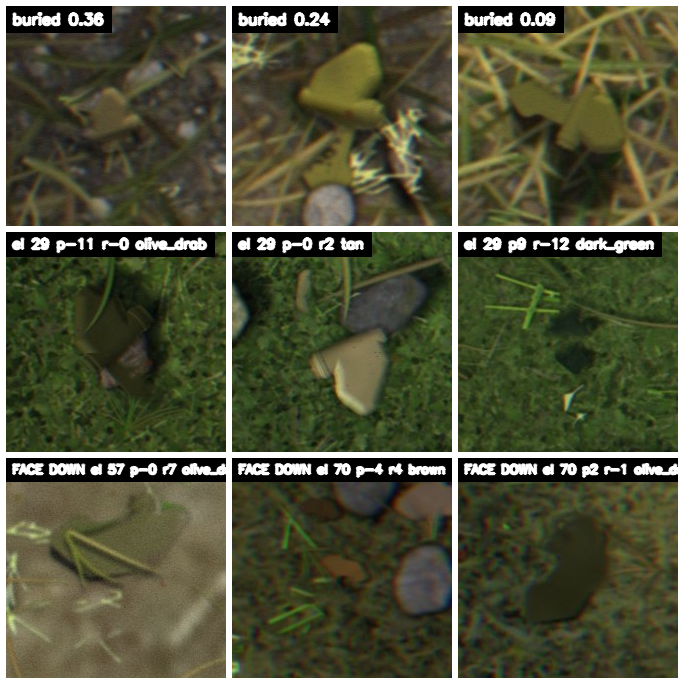
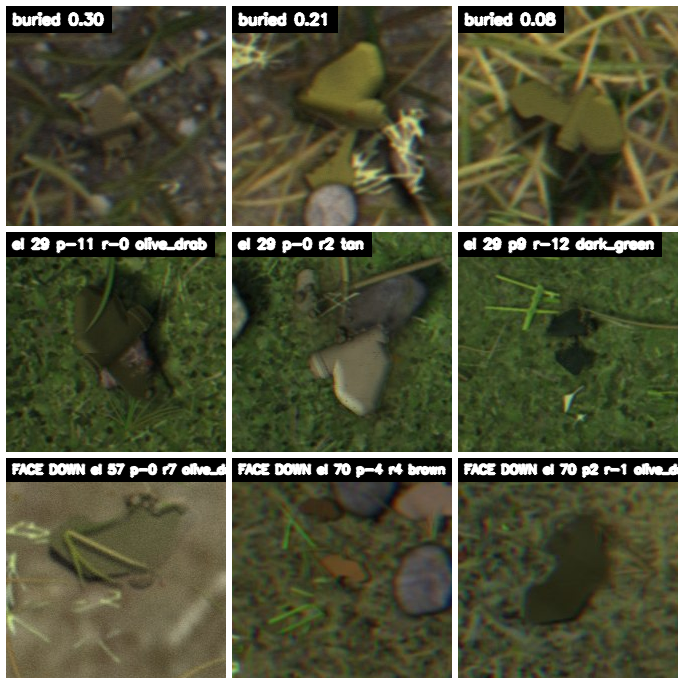
feat: improve burial realism with berm, disturbed soil, clods and blade warp

diff --git a/DatasetGenerator/objects.py b/DatasetGenerator/objects.py
@@ -343,7 +343,7 @@ class Mine:
         if burial is not None:
             # the clip plane can leave slivers on thin wings / rims and tiny islands: remove them (they count as buried)
             full_px = float((self.alpha_full > 0.5).sum())
-            keep = burial_fx.clean_mask(self.alpha > 0.5, cfg.BURIAL_MIN_FRAGMENT_FRAC * full_px, cfg.BURIAL_OPEN_PX)
+            keep = burial_fx.clean_mask(self.alpha > 0.5, cfg.BURIAL_MIN_FRAGMENT_FRAC * full_px, self._open_r(ppu))
             g = cv2.dilate(keep, burial_fx.K3).astype(np.float32)
             self.alpha = self.alpha * g
             self.rgb_pm = self.rgb_pm * g[..., None]
@@ -353,6 +353,11 @@ class Mine:
                          colour=cinfo, burial={"buried": burial is not None, **(burial or {}), **r["info"]})
         if not cfg.SOIL_BLEND:
             self._v1_dots()
+
+    def _open_r(self, length_px):
+        """Opening radius for the burial clean-up: strips thinner than ~2 r px (r = BURIAL_OPEN_FRAC x mine length,
+        at least BURIAL_OPEN_PX) left by the clip plane on thin wings / rims are removed."""
+        return int(max(self.cfg.BURIAL_OPEN_PX, round(self.cfg.BURIAL_OPEN_FRAC * length_px)))
 
     def _load_sprite(self, scale):
         cfg, rng = self.cfg, self.rng
@@ -450,15 +455,21 @@ class Mine:
             s_rgb = s_rgb * (s_a > 0)[..., None]
         # what the soil line leaves visible must not contain slivers / islands either: cover them with soil
         vis = alpha * (1.0 - s_a)
-        keep = burial_fx.clean_mask(vis > 0.5, cfg.BURIAL_MIN_FRAGMENT_FRAC * full, cfg.BURIAL_OPEN_PX)
+        stages = {"clip": float(1 - (alpha > 0.5).sum() / max(full, 1)),
+                  "soil_line": float(1 - (vis > 0.5).sum() / max(full, 1))}
+        keep = burial_fx.clean_mask(vis > 0.5, cfg.BURIAL_MIN_FRAGMENT_FRAC * full, self._open_r(L))
         drop = ((alpha > 0.02) & (cv2.dilate(keep, burial_fx.K3) == 0)).astype(np.float32)
         if drop.any():
             soil_col = fx.gblur(local, 1.0) * p["berm_darken"]
             s_rgb = s_rgb * (1 - drop)[..., None] + soil_col * drop[..., None]
             s_a = np.maximum(s_a, drop)
         vis = alpha * (1.0 - s_a)
+        stages["fragments"] = float(1 - (vis > 0.5).sum() / max(full, 1))
         core = np.maximum(np.clip(self.alpha_full - alpha, 0, 1), s_a)
-        line, dist = burial_fx.soil_line(vis, core)
+        # the ridge / occlusion gradient follow the CLIP line (visible mine against the part cut away by the soil
+        # plane, incl. dropped fragments); the noisy soil cover over low rims only roughens the edge
+        clip_core = np.maximum(np.clip(self.alpha_full - alpha, 0, 1), drop)
+        line, dist = burial_fx.soil_line(vis, clip_core)
         if cfg.BURIAL_DIRTY_EXPOSED:
             rgb_pm = burial_fx.dirty_exposed(rgb_pm, alpha, dist, local, L, bp, sB, rngb, cfg)
         fx.over(img, rgb_pm, alpha, self.x, self.y)
@@ -479,9 +490,25 @@ class Mine:
                 cover = np.maximum(cover, tmp)
         vis_final = vis * (1.0 - cover)
         achieved = float(1 - (vis_final > 0.5).sum() / max(full, 1))
-        if achieved > cfg.BURIAL_MAX_FRACTION:   # ridge / clods hid too much: they stay, but only semi-transparent
-            vis_final = vis * (1.0 - np.minimum(cover, 0.45))
+        if achieved > cfg.BURIAL_MAX_FRACTION:
+            # ridge / clods would hide too much: they are drawn as they are, but for the visible mask (label) they
+            # count with the largest weight f that keeps the cap (bisection), i.e. as partly see-through cover
+            lo, hi = 0.0, 1.0
+            for _ in range(8):
+                f = (lo + hi) / 2
+                if 1 - (vis * (1 - f * cover) > 0.5).sum() / max(full, 1) > cfg.BURIAL_MAX_FRACTION:
+                    hi = f
+                else:
+                    lo = f
+            vis_final = vis * (1.0 - lo * cover)
             achieved = float(1 - (vis_final > 0.5).sum() / max(full, 1))
+        # ridge / clods can split off tiny bits of the visible mask: the label mask drops them like any fragment
+        keep = burial_fx.clean_mask(vis_final > 0.5, cfg.BURIAL_MIN_FRAGMENT_FRAC * full, cfg.BURIAL_OPEN_PX)
+        vis_final = vis_final * cv2.dilate(keep, burial_fx.K3).astype(np.float32)
+        achieved = float(1 - (vis_final > 0.5).sum() / max(full, 1))
+        stages["final"] = achieved
+        self.meta["burial"]["hidden_by_stage"] = stages
+        self.meta["burial"]["cap_exceeded"] = bool(achieved > cfg.BURIAL_MAX_FRACTION + 0.01)
         self.visible = vis_final
         self.meta["burial"].update({k: v for k, v in p.items() if k != "noise_seed"})
         self.meta["burial"].update(achieved=achieved, realism={k: v for k, v in bp.items() if k != "seed"}, scale=sB)

diff --git a/tests/test_burial.py b/tests/test_burial.py
@@ -4,7 +4,8 @@ For several seeds / poses, the same mine is built with burial off and with 40% b
 Checks: (1) the placement anchor (bbox of the unclipped silhouette) is identical -> 0 px offset;
 (2) every visible pixel of the buried mine lies inside the unburied mine's silhouette (1 px tolerance for
 anti-aliasing); (3) the visible area actually shrinks; (4) the full scene: the label box of the buried mine lies
-inside the unburied box. Run: python3 tests/test_burial.py  (or pytest tests/).
+inside the unburied box; (5) the final visible mask of buried mines (9 seeds / poses incl. face down) has no tiny
+islands and no 1-2 px-wide line structures. Run: python3 tests/test_burial.py  (or pytest tests/).
 """
 import os
 import sys
@@ -61,6 +62,43 @@ def check(seed, pose):
     return anchor_off, int((vis_on > 0.5).sum()), int((vis_off > 0.5).sum())
 
 
+FRAG_CASES = [(12, (3, -2, 30)), (13, (3, -2, 30)), (1, (3, -2, 30)), (3, (-2, 5, 200)), (4, (2, -3, 60, True)),
+              (2, (3, -2, 300)), (7, (8, -4, 250, True)), (21, (-6, 10, 75)), (8, (4, 3, 120))]
+
+
+def check_fragments(seed, pose, fraction=0.4):
+    """Final visible mask of a buried mine (after soil line, fragment clean-up, ridge, clods): no connected component
+    smaller than BURIAL_MIN_FRAGMENT_FRAC x full area, and no 1-2 px-wide line structures (a 3x3 opening keeps at
+    least 70% of every component; overall it removes < 6% of the visible pixels)."""
+    cfg = make_config(dict(n_mines=1, mine_scale=0.35, mine_pose=pose, burial_prob=1.0, burial_fraction=fraction,
+                           burial_tilt=15))
+    rng = np.random.default_rng([seed, 0, 0])
+    sun = sunmod.sample_sun(rng, cfg)
+    scene = {"sun": sun, "luma": 0.4, "px_per_mm": 1.0, "blade_budget": [0]}
+    m = Mine(cfg, [seed, 0, 10, 0], scene)
+    m.set_position(1920, 1080, centre=(960, 540))
+    img = np.full((1080, 1920, 3), 0.4, np.float32)
+    m.draw(img)
+    vis = (m.visible > 0.5).astype(np.uint8)
+    full = float((m.alpha_full > 0.5).sum())
+    n, lab, st, _ = cv2.connectedComponentsWithStats(vis, connectivity=8)
+    opened = cv2.morphologyEx(vis, cv2.MORPH_OPEN, cv2.getStructuringElement(cv2.MORPH_ELLIPSE, (3, 3)))
+    for i in range(1, n):
+        area = st[i, cv2.CC_STAT_AREA]
+        assert area >= cfg.BURIAL_MIN_FRAGMENT_FRAC * full * 0.5, \
+            f"seed {seed}: visible fragment of {area} px (< min {cfg.BURIAL_MIN_FRAGMENT_FRAC * full:.0f})"
+        kept = (opened[lab == i] > 0).mean()
+        assert kept >= 0.7, f"seed {seed}: component {i} is line-like ({kept:.2f} survives a 3x3 opening)"
+    lost = 1 - opened.sum() / max(vis.sum(), 1)
+    assert lost < 0.06, f"seed {seed}: {lost:.3f} of the visible pixels are 1-2 px structures"
+    return n - 1, float(m.meta["burial"]["achieved"]), float(lost)
+
+
+def test_buried_visible_mask_has_no_slivers():
+    for seed, pose in FRAG_CASES:
+        check_fragments(seed, pose)
+
+
 def test_burial_keeps_position_and_silhouette():
     for seed, pose in CASES:
         check(seed, pose)
@@ -70,4 +108,7 @@ if __name__ == "__main__":
     for seed, pose in CASES:
         anchor, a_on, a_off = check(seed, pose)
         print(f"seed {seed} pose {pose}: anchor {anchor} identical, visible {a_on}/{a_off} px, all inside -> OK")
+    for seed, pose in FRAG_CASES:
+        n, ach, lost = check_fragments(seed, pose)
+        print(f"seed {seed} pose {pose}: {n} visible component(s), hidden {ach:.2f}, 1-2 px structures {lost:.3f} -> OK")
     print("PASS")

diff --git a/DatasetGenerator/controlPanel.py b/DatasetGenerator/controlPanel.py
@@ -237,6 +237,7 @@ LOCAL_BG_SIGMA_FRAC = 0.25          # blur of the local background (fraction of 
 # --- BURIAL (BURIAL; needs MESH_MINES) ---
 BURIAL_PROB = 0.35
 BURIAL_FRACTION = (0.05, 0.5)       # fraction of the mine's top-down visible area that ends up under soil
+BURIAL_CLIP_SHARE = 0.85            # the 3D clip hides this share of BURIAL_FRACTION; soil line / ridge / clods the rest
 BURIAL_MAX_FRACTION = 0.5           # hard cap (user decision: every mine stays reasonably visible, always boxed)
 BURIAL_TILT = (0.0, 25.0)           # ground-plane tilt
 SOIL_EDGE_NOISE = (0.01, 0.035)     # soil-line roughness, mesh units (mine length = 1)
@@ -244,18 +245,20 @@ BERM_WIDTH_PX = (2.0, 6.0)          # soil lip / berm along the buried edge
 BERM_OPACITY = (0.4, 0.85)
 BERM_DARKEN = (0.75, 0.95)          # disturbed soil is a little darker / damper than the surface
 BURIAL_MIN_FRAGMENT_FRAC = 0.06     # after clipping: visible islands smaller than this x full area are dropped ...
-BURIAL_OPEN_PX = 1                  # ... and structures thinner than ~2 px removed (morphological opening radius)
+BURIAL_OPEN_PX = 1                  # ... and structures thinner than ~2 r px removed (morphological opening, radius
+BURIAL_OPEN_FRAC = 0.025            #     r = max(BURIAL_OPEN_PX, BURIAL_OPEN_FRAC x mine length); ~4 px at 150 px)
 # Soil-displacement cues (user feedback: a cut-away mine looks edited). Strength scales with
 # s = clip(burial fraction / 0.4, 0.25, 1.25): subtle for small burials, clear at 40-50%.
 BURIAL_BERM = True                  # raised, clumpy ridge along the soil line, sun-shaded, casting a short shadow
 BERM_RIDGE_WIDTH_FRAC = (0.03, 0.08)    # ridge width / mine length
 BERM_RIDGE_HEIGHT_FRAC = (0.02, 0.05)   # ridge height / mine length (cast-shadow length)
-BERM_RIDGE_OPACITY = (0.6, 0.9)
+BERM_RIDGE_OPACITY = (0.5, 0.8)
+BERM_RIDGE_SHADE = 0.35             # sun shading contrast of the ridge (lit side x (1 + this), far side x (1 - this))
 BURIAL_DISTURBED_SOIL = True        # darker, rougher turned-soil patch around the buried part (on the ground)
-DISTURBED_RADIUS_FRAC = (0.12, 0.3) # patch extent beyond the buried region / mine length (noise-modulated edge)
+DISTURBED_RADIUS_FRAC = (0.08, 0.2) # patch extent beyond the buried region / mine length (noise-modulated edge)
 DISTURBED_DARKEN = (0.72, 0.88)
 DISTURBED_DESAT = (0.1, 0.3)
-DISTURBED_OPACITY = (0.6, 0.9)
+DISTURBED_OPACITY = (0.35, 0.65)
 BURIAL_CLODS = True                 # displaced soil clods (assets_new/dirt clods) along the soil line, with shadows
 BURIAL_CLOD_COUNT = (3.0, 9.0)      # at s = 1
 BURIAL_CLOD_SIZE_FRAC = (0.03, 0.09)    # clod width / mine length

diff --git a/DatasetGenerator/features/burial_fx.py b/DatasetGenerator/features/burial_fx.py
@@ -125,14 +125,17 @@ def berm_ridge(line_dist, core, vis, local, L, sun, p, s, rng, cfg):
     n = fx.fbm(h, w, max(2.0, 0.06 * L), rng)
     clumps = fx.fbm(h, w, max(1.5, 0.025 * L), rng, octaves=2)
     prof = np.clip(1 - line_dist / (width * (0.5 + n)), 0, 1)      # irregular width
+    # the ridge sits on the soil side and only laps onto the exposed mine by ~25% of its width
+    inside = cv2.distanceTransform((vis > 0.5).astype(np.uint8), cv2.DIST_L2, 3)
+    prof *= np.clip(1 - inside / max(1.0, 0.25 * width), 0, 1)
     height = fx.gblur(prof ** 0.7 * (0.7 + 0.6 * clumps), max(0.8, 0.15 * width))
     a = np.clip(height * 1.6, 0, 1) * p["ridge_opacity"] * min(1.0, s)
     # shading from the height field: lit where the surface faces the sun
     gy, gx = np.gradient(height)
     sd = _sun_dir_img(sun["azimuth"])
     shade = -(gx * sd[0] + gy * sd[1]) * (width * 1.5)            # >0 on the sunlit slope
-    k = 0.5 * sun["shadow_strength"] / 0.45
-    shade = np.clip(1 + k * np.clip(shade, -1, 1), 0.55, 1.4)
+    k = cfg.BERM_RIDGE_SHADE * sun["shadow_strength"] / 0.45
+    shade = np.clip(1 + k * np.clip(shade, -1, 1), 0.6, 1.3)
     base = soil_colour(fx.gblur(local, max(1.0, 0.05 * L)), cfg) * 0.95 * (0.8 + 0.4 * clumps)[..., None]
     rgb = base * shade[..., None]
     # cast shadow of the ridge (height ~ ridge_height_frac x L) away from the sun

diff --git a/DatasetGenerator/features/blades.py b/DatasetGenerator/features/blades.py
@@ -91,6 +91,12 @@ def make_blade_elements(cfg, rng, px_per_mm, count, fresh_budget):
                 continue
             rgb, a, _ = cut
             f = L / max(a.shape)
+            # pool PNGs have their own length / width ratio: never let a scaled blade get wider than the blade-width
+            # range allows (mean width ~ area / long side); tufts / wisps are capped at 3x that
+            wr = cfg.BLADE_WIDTH_MM[1] * px_per_mm * (1.0 if kind == "blade" else 3.0)
+            mean_w = float((a > 0.5).sum()) / max(a.shape)
+            if mean_w * f > wr:
+                f = wr / max(mean_w, 1e-3)
             tw, th = max(1, int(round(a.shape[1] * f))), max(1, int(round(a.shape[0] * f)))
             prgb, pa = edges.resize_rotate(rgb, a, tw, th, angle, cfg.SOFT_EDGES, 0.0)
             src = "pool"

diff --git a/scripts/burial_realism_figure.py b/scripts/burial_realism_figure.py
@@ -22,7 +22,8 @@ BASE = dict(n_mines=1, mine_positions=[(960, 540)], mine_scale=0.35, psf_sigma=0
             overcast_prob=0.0, blades_over_on_mine=0.0)
 BUR = dict(burial_prob=1.0, burial_fraction=0.4, burial_tilt=15)
 OLD = dict(burial_berm=False, burial_disturbed_soil=False, burial_clods=False, burial_dirty_exposed=False,
-           blade_soil_lift=False, blade_emerge=False, burial_min_fragment_frac=0.0, burial_open_px=0)
+           blade_soil_lift=False, blade_emerge=False, burial_min_fragment_frac=0.0, burial_open_px=0,
+           burial_open_frac=0.0, burial_clip_share=1.0)
 CASES = [("gravel", 1, dict(mine_pose=(3, -2, 30))),
          ("dark grass", 12, dict(mine_pose=(3, -2, 30))),
          ("light dry grass", 8, dict(mine_pose=(4, 3, 120))),

diff --git a/DatasetGenerator/features/mesh.py b/DatasetGenerator/features/mesh.py
@@ -193,7 +193,8 @@ def render_mine(cp, pose, ppu, sun_az, sun_el, albedo, shadow_strength, burial=N
     # soil plane n . p = c (default: flat ground through the lowest point)
     n_pl, c_pl = np.array([0.0, 0.0, 1.0]), z0
     front_all = nrm[:, 2] > 0
-    burial_frac = burial["fraction"] if burial else 0.0
+    # the clip plane hides BURIAL_CLIP_SHARE of the target; the rough soil line, ridge and clods add the rest
+    burial_frac = burial["fraction"] * cp.BURIAL_CLIP_SHARE if burial else 0.0
     if burial_frac > 0:
         tilt, phi = np.deg2rad(burial["tilt"]), np.deg2rad(burial["direction"])
         n_pl = np.array([np.sin(tilt) * np.cos(phi), np.sin(tilt) * np.sin(phi), np.cos(tilt)])

diff --git a/docs/CHANGES.md b/docs/CHANGES.md
@@ -129,6 +129,43 @@ point-spread function (camera blur kernel); **HSV** = hue (deg), saturation, val
   `docs/burial_fix.png` (`scripts/burial_fix_figure.py`). The irregular soil line on the gravel example (buried part
   in the middle, ragged edge) is unchanged. If the rough soil line would push the hidden area past the 50% cap even
   after shrinking it 4 times, soil is kept off the visible mine (200-image check: max achieved 0.50, 255 buried mines).
+- **Slivers / fragments (second round of user feedback)**: a thin wing rim grazed by the clip plane could leave a
+  1-4 px diagonal line and a detached wing-tip island. Now, after the clip, after the soil line and for the final
+  label mask, the visible mask is cleaned (`features/burial_fx.clean_mask`): morphological opening with radius
+  r = max(`BURIAL_OPEN_PX`=1, `BURIAL_OPEN_FRAC`=0.025 x mine length) removes strips thinner than ~2r px, and visible
+  islands smaller than `BURIAL_MIN_FRAGMENT_FRAC`=0.06 of the full area are dropped (the largest part always stays);
+  what is removed counts as buried and is covered by soil. Regression test (in `tests/test_burial.py`, 9 seeds /
+  poses incl. face down): no visible component below the minimum area, every component keeps >= 70% under a 3x3
+  opening (no line-like parts), < 6% of the visible pixels are 1-2 px structures.
+- **Soil-displacement cues** (`features/burial_fx.py`; strength scales with s = clip(burial fraction / 0.4, 0.25,
+  1.25), subtle for small burials, clear at 40-50%). Before / after: `docs/burial_realism.png` (gravel, dark grass,
+  light dry grass, bare soil, face down, low / high sun; columns burial off, old 40%, new 40%, new 40% with blades).
+  Turned soil takes a brown soil tone (`BURIAL_SOIL_RGB`, mixed in by `BURIAL_SOIL_MIX`=0.3-0.75, more on green
+  ground, brightness from the local ground) so digging into a lawn exposes earth, not grass.
+  - `BURIAL_BERM`: a raised, clumpy ridge along the clip line (width `BERM_RIDGE_WIDTH_FRAC`=3-8% of the mine
+    length, irregular, fBm clumps), sitting on the soil side and lapping onto the mine by ~25% of its width,
+    shaded by the sun from its height field (`BERM_RIDGE_SHADE`=0.35: lit slope lighter, far slope darker) and
+    casting a short shadow (height `BERM_RIDGE_HEIGHT_FRAC`=2-5% of the length) onto the mine and the ground.
+  - `BURIAL_DISTURBED_SOIL`: a darker, rougher, slightly browner turned-soil patch on the ground around the buried
+    part (`DISTURBED_RADIUS_FRAC`=0.08-0.2 of the length, noise-modulated edge, opacity 0.35-0.65, darken 0.72-0.88,
+    desaturate 0.1-0.3), drawn under the mine and its shadow.
+  - `BURIAL_CLODS`: `BURIAL_CLOD_COUNT`=3-9 (x s) clods from `assets_new/dirt` (clod snippets, audit-filtered),
+    3-9% of the mine length, coloured towards the turned soil (`BURIAL_CLOD_COLOUR_ADAPT`=0.85), scattered along
+    and over the soil line (some on the mine) with small sun-consistent shadows.
+  - `BURIAL_DIRTY_EXPOSED`: the exposed part gets an occlusion gradient at the soil line (`EXPOSED_AO_PX`=2-6 px,
+    strength 0.25-0.45), is darker (5-15%) and less saturated (10-25%), and carries grains, thin streaks and a dusty
+    film (`EXPOSED_GRAIN_DENSITY`, `EXPOSED_STREAKS`, `EXPOSED_FILM`) whose density rises towards the buried side.
+  - Hidden fraction: the clip plane now hides `BURIAL_CLIP_SHARE`=0.85 of `BURIAL_FRACTION`; the rough soil line,
+    ridge and clods hide the rest. If ridge / clods would push the hidden area past the 50% cap, they are still
+    drawn but count for the label mask with the largest weight that keeps the cap (bisection). Sidecar:
+    `burial.hidden_by_stage` (clip, soil_line, fragments, final), `burial.realism` (all sampled cue parameters),
+    `burial.scale`, `burial.cap_exceeded`. 50-image sample: 63 buried mines, max hidden 0.50, cap never exceeded.
+- **Blades over buried mines** (`BLADE_SOIL_LIFT`, `BLADE_EMERGE`): every over-layer blade / tuft / wisp that
+  crosses a buried mine's soil-line zone is warped (cv2.remap with a smooth weight around the clip line): its pixels
+  are lifted by up to ~4% of the mine length (1.5-6 px) towards the sun side (away from the shadow direction), a soft
+  shadow is left where it would have lain, and the lifted segment is brightened slightly. Parts lying on the
+  soil-covered region are partly covered by soil (`BLADE_EMERGE_COVER`=0.6, noise-modulated), so they look rooted /
+  emerging. Pool blades are also capped in width (`BLADE_WIDTH_MM` max; tufts / wisps 3x) so no flat, wide strips.
 - **Limitations**: the soil plane is a plane (no local relief); no soil spilled onto the wings away from the line;
   where the tilted plane runs close to a low wing rim, the noisy soil line can cover a thin strip of that rim.
 
@@ -247,6 +284,11 @@ saved_look = jpeg_roundtrip(rgb, meta["post"]["jpeg_quality"])
   centres, `MINE_COLOUR` (r, g, b in [0, 1]), `overcast_prob: 0`, `sun_azimuth`, `sun_elevation`, `burial_prob`,
   `burial_fraction`, `psf_sigma`, `exposure`, ...
 - Assets / debris toggles: `grass_blades`, `blades_under` / `blades_over` (count ranges, e.g. (0, 0)),
+  `burial_berm`, `burial_disturbed_soil`, `burial_clods`, `burial_dirty_exposed`, `blade_soil_lift`, `blade_emerge`,
+  `burial_min_fragment_frac`, `burial_open_frac`, `burial_open_px`, `burial_clip_share`, `berm_ridge_width_frac`,
+  `berm_ridge_shade`, `disturbed_radius_frac`, `disturbed_opacity`, `burial_clod_count`, `exposed_ao_strength`,
+  `exposed_film`, `burial_soil_rgb` (old-style burial for comparisons: set the four BURIAL_* cue flags and the two
+  blade flags False, `burial_min_fragment_frac=0`, `burial_open_px=0`, `burial_open_frac=0`, `burial_clip_share=1`),
   `blades_over_on_mine` (probability per mine, 1.0 = every mine), `blades_on_mine_count`, `dust_strength` (scalar
   fixes it; or a (low, mode, high) triangle),
   `blade_size_mm`, `blade_width_mm`, `blade_colour_adapt`, `blade_fresh_prob`, `blade_max_fresh_per_image`,
@@ -274,6 +316,7 @@ saved_look = jpeg_roundtrip(rgb, meta["post"]["jpeg_quality"])
 | v1 (original, pygame + moderngl) | 0.49 |
 | v2, all features (before new assets / blades) | 0.64 (1.3x v1) |
 | v2, all features incl. blades, new assets, rock seating, leaf clumps, blades on mines, audit filter | 0.93 (1.9x v1) |
+| v2, + burial soil-displacement cues | 1.01 (2.1x v1) |
 | v2 engine, `--v1` | 0.33 |
 `--workers N` parallelises (50 images with 4 workers: 0.32 s / image wall clock). The extra time is mostly the
 on-the-fly blades (capped at 3 per image), ~100 more debris elements with shadows, and the soft dirt grains.
